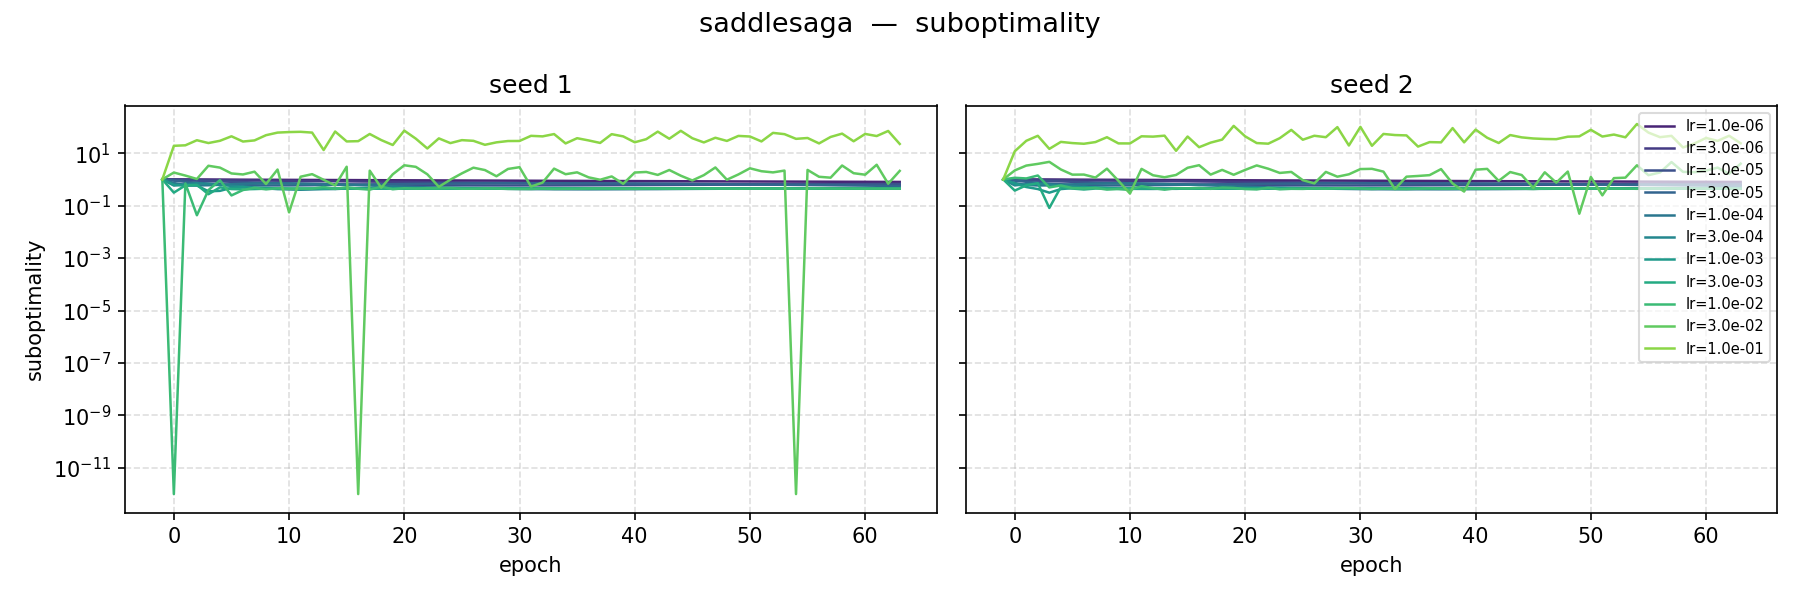
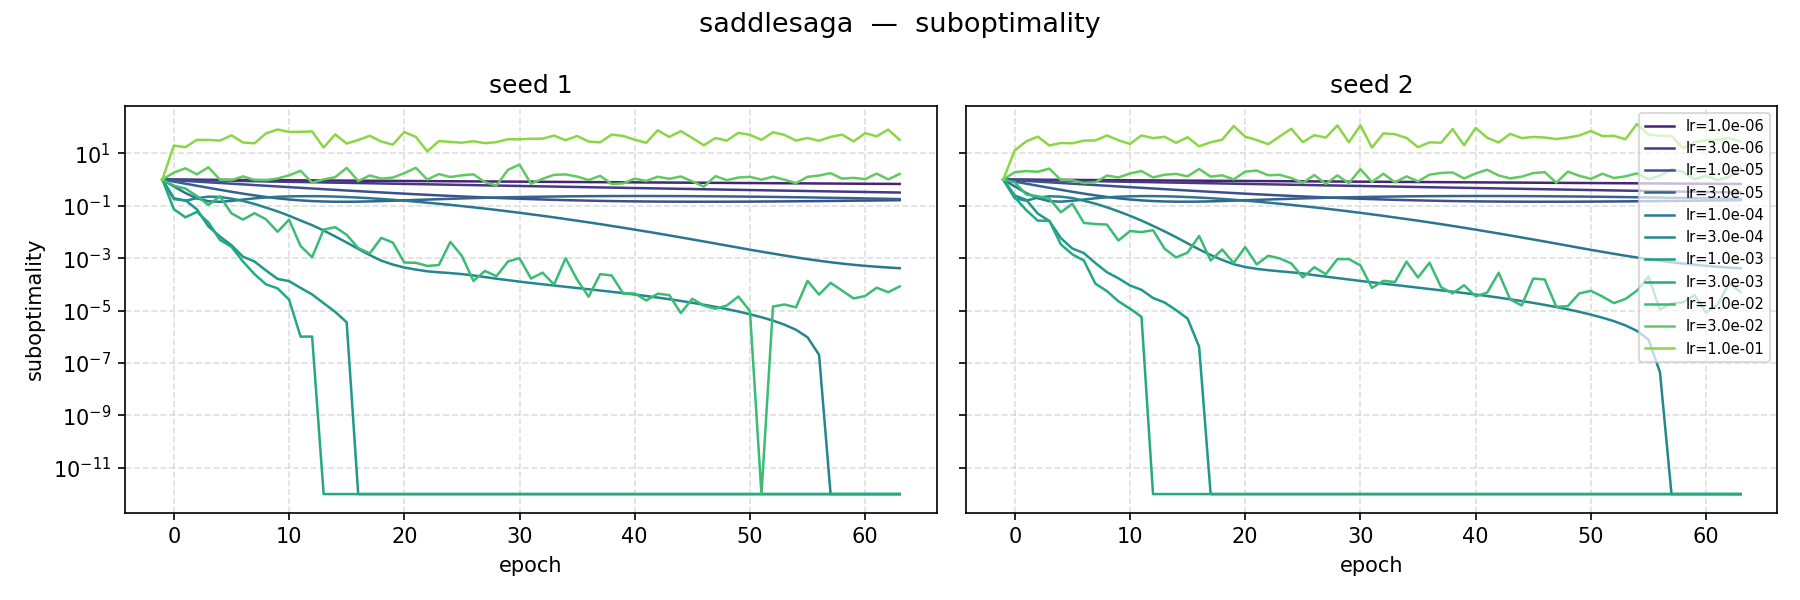
[fix] plot train_loss instead of val_loss.

diff --git a/prospect/scripts/plot.py b/prospect/scripts/plot.py
@@ -36,9 +36,9 @@ parser.add_argument(
 parser.add_argument(
     "--loss_key",
     type=str,
-    default="val_loss",
+    default="train_loss",
     choices=["train_loss", "train_loss_unreg", "val_loss"],
-    help="Which loss column to plot (default: val_loss).",
+    help="Which loss column to plot (default: train_loss).",
 )
 parser.add_argument(
     "--seeds",
